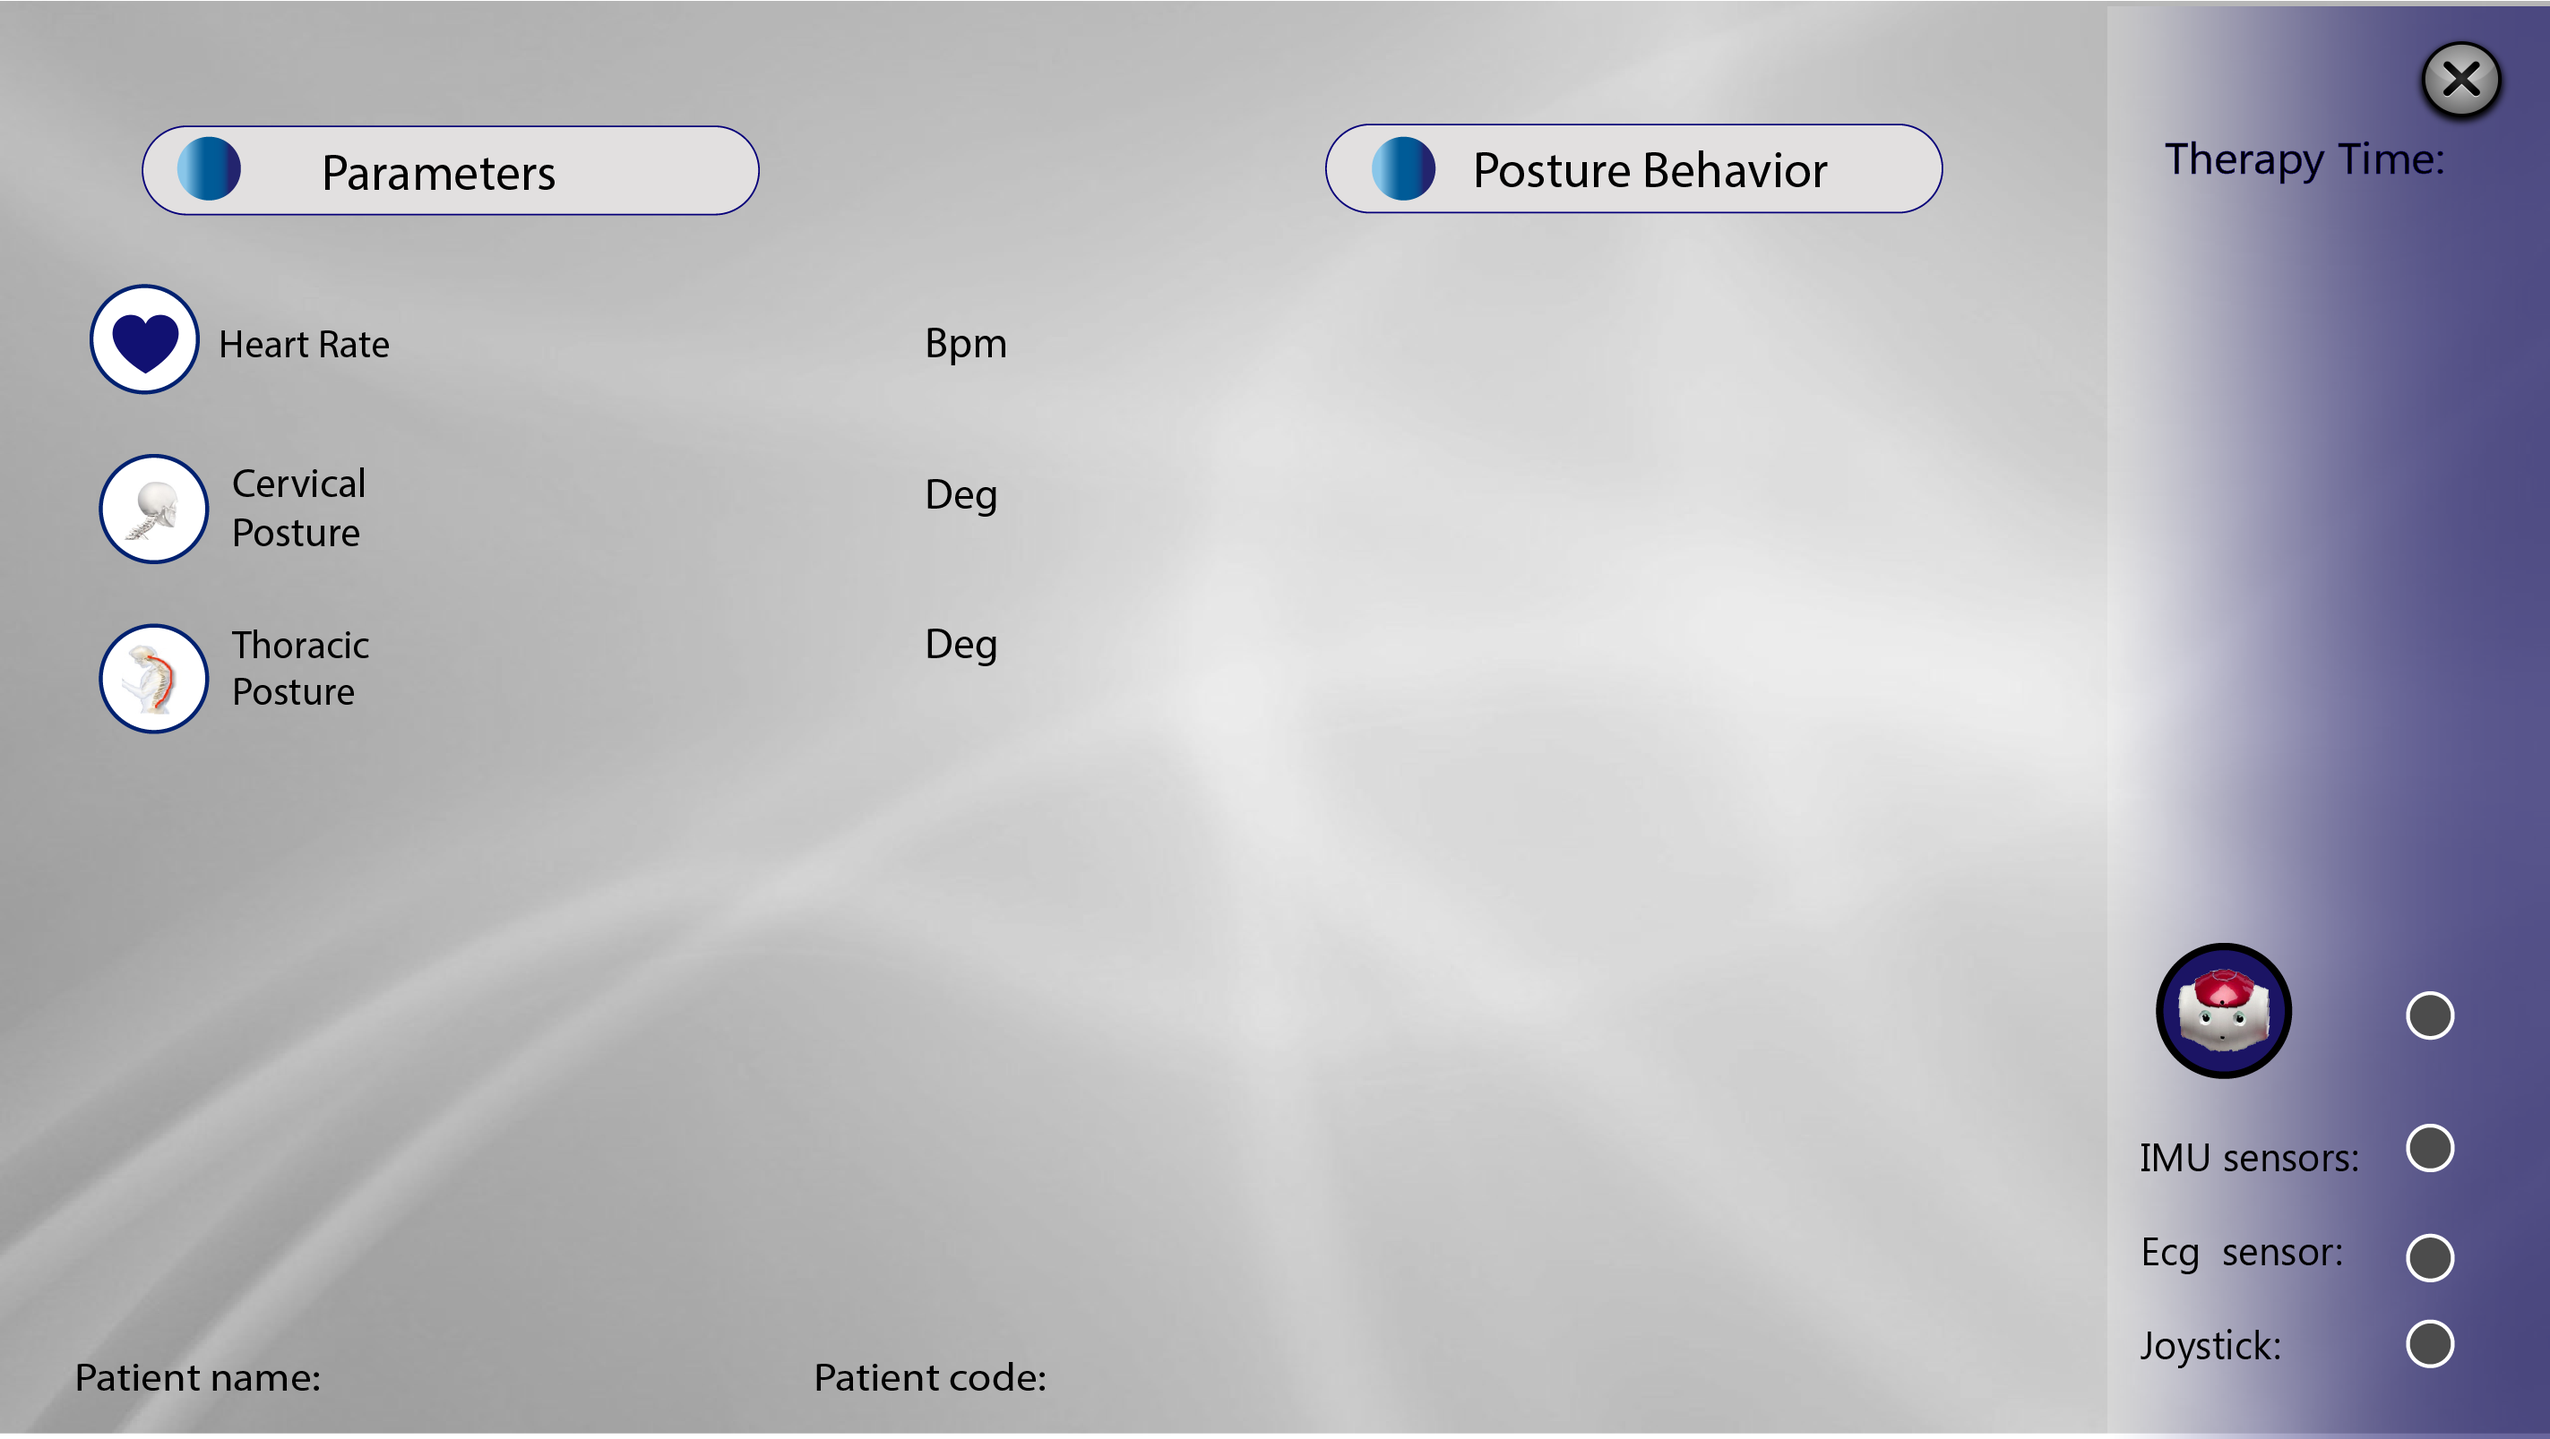
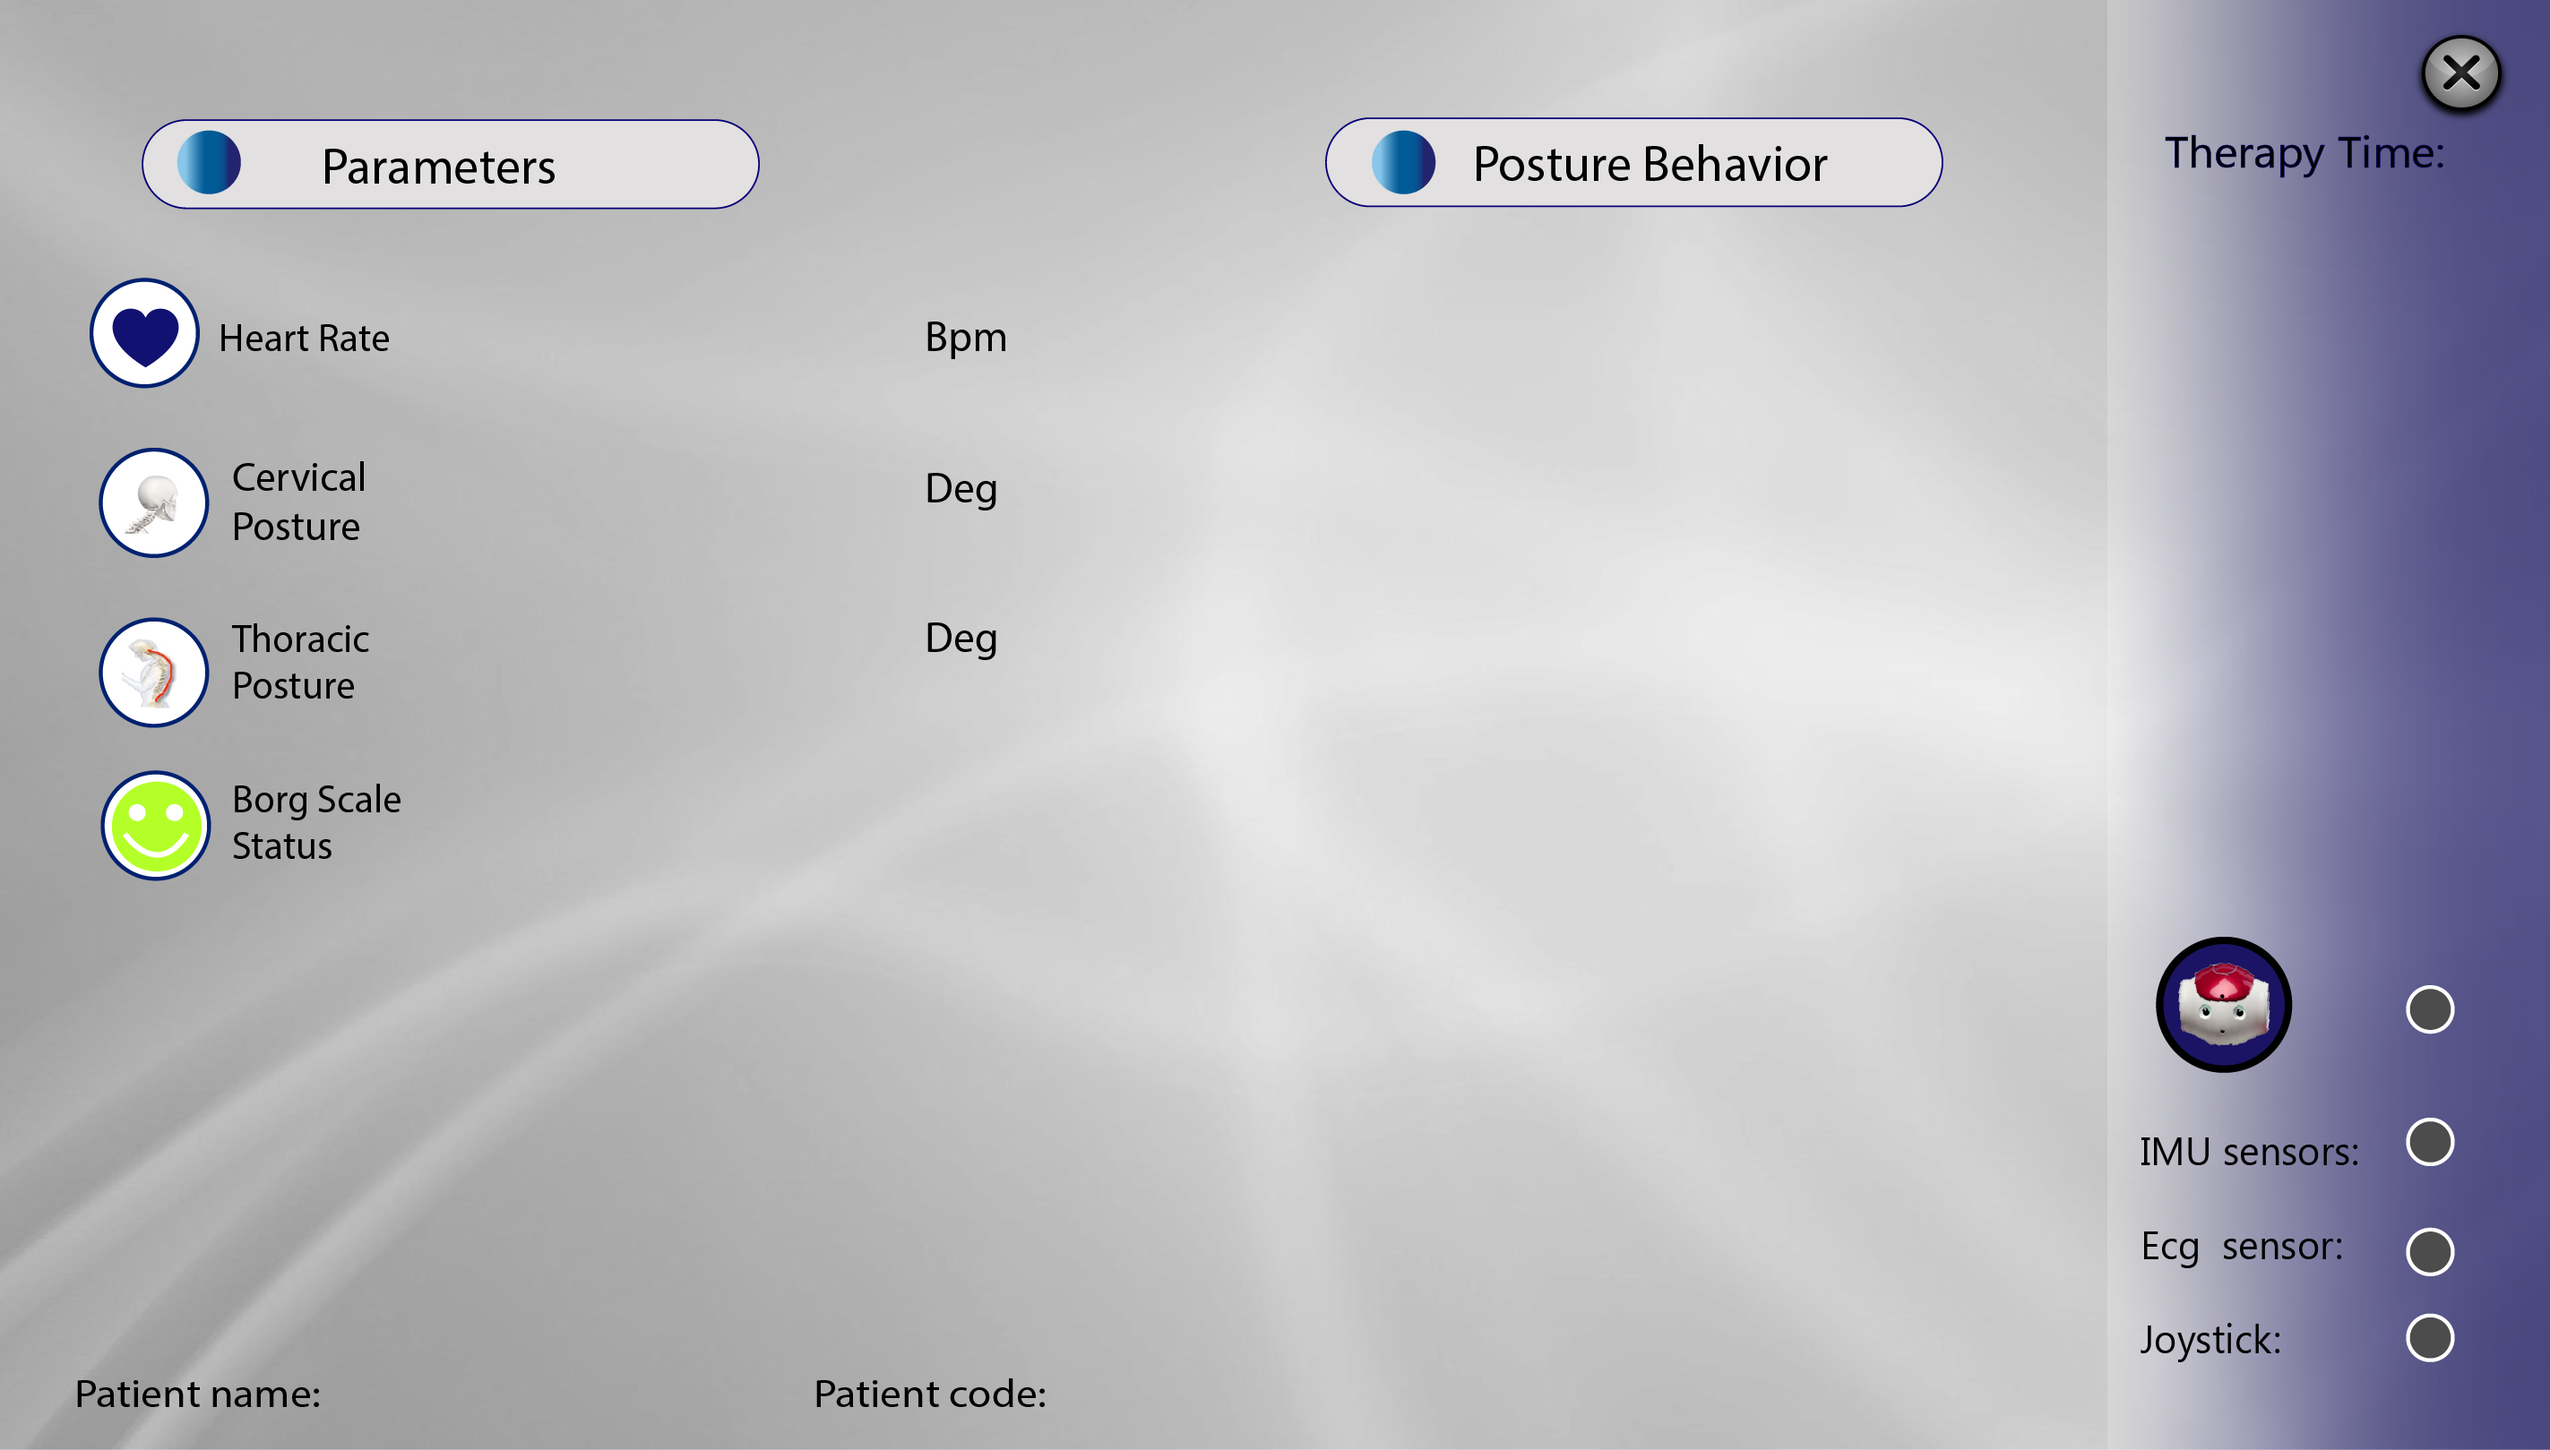
Interface Borg status changes

diff --git a/gui/Interface.py b/gui/Interface.py
@@ -39,17 +39,15 @@ class MainTherapyWin(QtGui.QMainWindow):
         #self.setGeometry(100,100,1000,580)#Tamaño de la ventana
         
         #setting backgroung image
-        '''
-        Image=QImage("gui/img/Interfaz.png")
-        sImage=Image.scaled(self.winsize_h,self.winsize_v,QtCore.Qt.KeepAspectRatio, transformMode=QtCore.Qt.SmoothTransformation)
-        palette=QtGui.QPalette()
-        palette.setBrush(10, QBrush(sImage))
-        self.setPalette(palette)
-        '''
-        self.label_background = QtGui.QLabel(self)
+        self.label_background=QtGui.QLabel(self)
         self.label_background.setGeometry(QtCore.QRect(0,0,self.winsize_h,self.winsize_v))
-        self.label_background.setPixmap(QtGui.QPixmap("gui/img/Interfaz.png"))
+        self.label_background.setPixmap(QtGui.QPixmap("img/Interfaz.png"))
         self.label_background.setScaledContents(True)
+        #Image=QImage("img/Interfaz.png")
+        #sImage=Image.scaled(self.winsize_h,self.winsize_v,QtCore.Qt.KeepAspectRatio, transformMode=QtCore.Qt.SmoothTransformation)
+        #palette=QtGui.QPalette()
+        #palette.setBrush(10, QBrush(sImage))
+        #self.setPalette(palette)
         #----------------------------------
         #-----------Labels config----------
         #Heart rate:
@@ -152,6 +150,12 @@ class MainTherapyWin(QtGui.QMainWindow):
         self.controlButtons['close'] = QtGui.QCommandLinkButton(self)
         self.controlButtons['close'].setGeometry(QtCore.QRect(self.winsize_h*0.943,self.winsize_v*0.02,self.winsize_h*0.038 ,self.winsize_h*0.038))
         self.controlButtons['close'].setIconSize(QSize(0,0))
+
+        # Borg Scale Status LCD
+        
+        self.BorgDisplay= QtGui.QLCDNumber(self)
+        self.BorgDisplay.setGeometry(QtCore.QRect(self.winsize_h*0.18,self.winsize_v*0.52,self.winsize_h*0.055 ,self.winsize_h*0.04))
+
 
         
         #----------------------------------
@@ -302,8 +306,6 @@ class BorgButton(object):
         elif self.j =='2':
             if self.cursorStatus > 0:
                 self.set_cursor(self.cursorStatus -1)
-        elif self.j == '5':
-            self.cursorStatus
 
     #def
 
